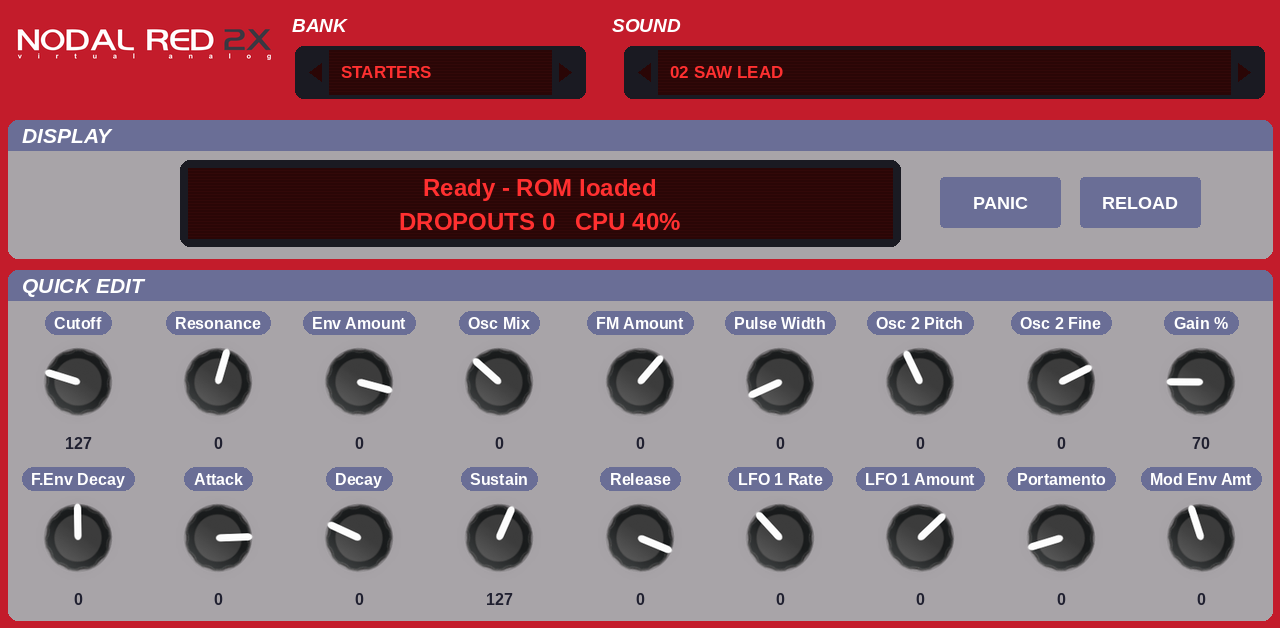
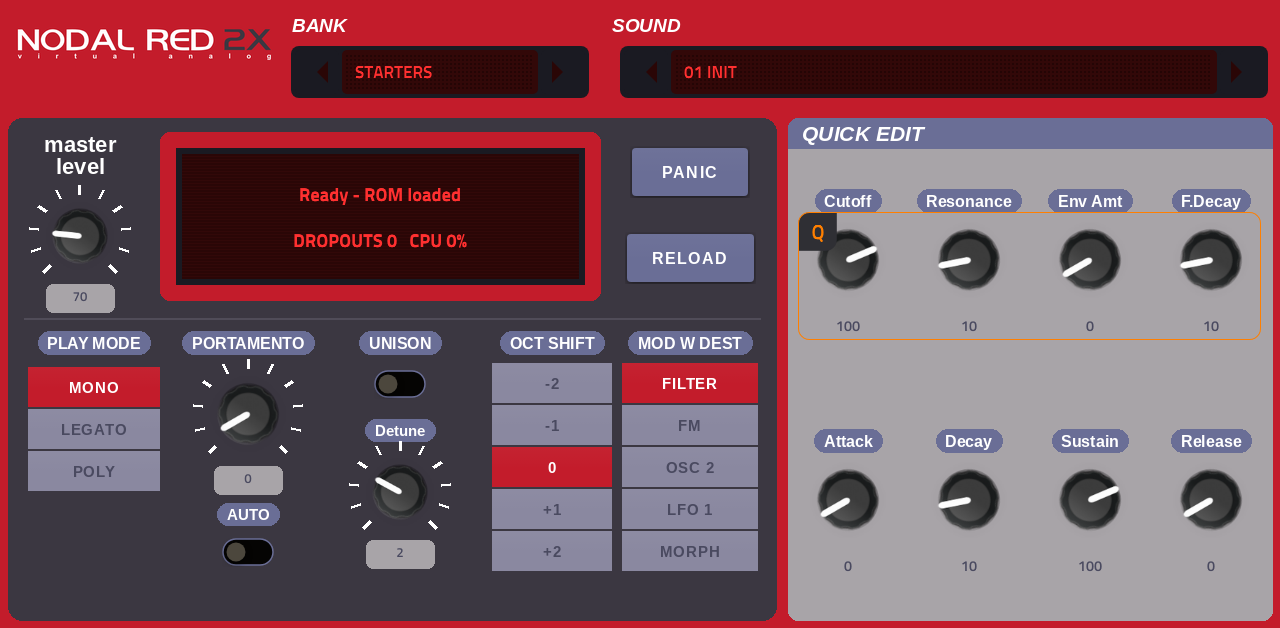
MAIN: the upstream's dark performance section (master level, display, play mode, portamento/auto, unison/detune, octave shift, mod wheel) beside a 4x2 quick edit
Claude-Session: https://claude.ai/code/session_01JtHXuWUjaQhgDnqeAhxqaC

diff --git a/tools/make_skin.py b/tools/make_skin.py
@@ -134,24 +134,67 @@ def header(p):
     p.widgets.append('stepper w=640 h=44 cx=944 cy=%d label="" key=preset get=preset_name prev=preset_prev next=preset_next style=dotmatrix persistent=1' % (72 + Y86))
 
 
-# ---------------------------------------------------------------- MAIN
-QUICK = ["Cutoff", "Resonance", "FilterEnvAmount", "FilterEnvD", "AmpEnvA", "AmpEnvR", "Lfo1Rate", "Portamento"]
-p = Page("MAIN", QUICK + ["gain"])
+# ---------------------------------------------------------------- MAIN: the upstream's dark performance section (left), quick edit 4 x 2 (right)
+import math
+DARK = (59, 55, 65)
+QUICK = ["Cutoff", "Resonance", "FilterEnvAmount", "FilterEnvD", "AmpEnvA", "AmpEnvD", "AmpEnvS", "AmpEnvR"]
+p = Page("MAIN", QUICK + ["gain", "Portamento", "unison_detune", "-"])
 header(p)
-p.panel(8, 120, 1264, 138, "DISPLAY")
-p.d.rounded_rectangle((180, 160, 900, 246), 10, fill=(26, 26, 34))
-p.d.rectangle((188, 168, 892, 238), fill=(42, 6, 6))
-for yy in range(170, 238, 3):
-    p.d.line((188, yy, 892, yy), fill=(50, 8, 8))
-p.widgets.append('readout cx=540 cy=%d w=690 h=36 label="" key=loading_status box=0 tsize=24 tcolor=ff3030 tweight=700' % (188 + Y86))
-p.widgets.append('readout cx=540 cy=%d w=690 h=36 label="" key=engine_stats box=0 tsize=24 tcolor=ff3030 tweight=700' % (222 + Y86))
-p.button(1000, 202, "all_notes_off", "PANIC")
-p.button(1140, 202, "init_patch", "RELOAD")
-p.panel(8, 270, 1264, 350, "QUICK EDIT")
-p.row(8, 1272, 382, [("Cutoff", "Cutoff"), ("Resonance", "Resonance"), ("FilterEnvAmount", "Env Amount"), ("Mix", "Osc Mix"), ("FmDepth", "FM Amount"),
-                     ("PW", "Pulse Width"), ("O2Pitch", "Osc 2 Pitch"), ("O2PitchFine", "Osc 2 Fine"), ("gain", "Gain %")])
-p.row(8, 1272, 538, [("FilterEnvD", "F.Env Decay"), ("AmpEnvA", "Attack"), ("AmpEnvD", "Decay"), ("AmpEnvS", "Sustain"), ("AmpEnvR", "Release"),
-                     ("Lfo1Rate", "LFO 1 Rate"), ("Lfo1Level", "LFO 1 Amount"), ("Portamento", "Portamento"), ("ModEnvLevel", "Mod Env Amt")])
+DX0, DX1 = 8, 776
+p.d.rounded_rectangle((DX0, 118, DX1, 620), 14, fill=DARK)
+
+
+def ticks(cx, cy, r):
+    """the white scale printed around the original's panel knobs (11 ticks over 270 degrees)"""
+    for i in range(11):
+        a = math.radians(135 + i * 27)
+        p.d.line((cx + math.cos(a) * r, cy + math.sin(a) * r, cx + math.cos(a) * (r + 9), cy + math.sin(a) * (r + 9)), fill=WHITE, width=3)
+
+
+def value_window(cx, y):      # MPC writes knob values in the theme ink (dark): a light window on the dark section
+    p.d.rounded_rectangle((cx - 34, y, cx + 34, y + 28), 7, fill=BODY)
+
+
+def dark_knob(cx, cy, key, r=34):
+    ticks(cx, cy, r + 12)
+    value_window(cx, cy + r + 18)
+    p.widgets.append('knob cx=%d cy=%d r=%d label="" key=%s ns=0 vs=20 vy=12 bw=%d' % (cx, cy + Y86, r, key, 2 * r + 40))
+
+
+# top row: master level, the red display, PANIC / RELOAD
+p.d.text((80, 132), "master", font=F(22), fill=WHITE, anchor="ma")
+p.d.text((80, 154), "level", font=F(22), fill=WHITE, anchor="ma")
+dark_knob(80, 236, "gain", 30)
+p.d.rounded_rectangle((160, 132, 600, 300), 10, fill=RED)
+p.d.rectangle((176, 148, 584, 284), fill=(26, 26, 34))
+p.d.rectangle((182, 154, 578, 278), fill=(42, 6, 6))
+for yy in range(156, 278, 3):
+    p.d.line((182, yy, 578, yy), fill=(50, 8, 8))
+p.widgets.append('readout cx=380 cy=%d w=380 h=40 label="" key=loading_status box=0 tsize=28 tcolor=ff3030 tweight=700' % (194 + Y86))
+p.widgets.append('readout cx=380 cy=%d w=380 h=40 label="" key=engine_stats box=0 tsize=28 tcolor=ff3030 tweight=700' % (240 + Y86))
+p.button(690, 172, "all_notes_off", "PANIC")
+p.button(690, 258, "init_patch", "RELOAD")
+p.d.line((24, 318, DX1 - 16, 318), fill=(80, 76, 88), width=2)
+# bottom row: the switch columns under slate headings, as on the original
+COLS = [94, 248, 400, 552, 690]
+p.chip(COLS[0], 334, "PLAY MODE", 16)
+p.widgets.append('enum_v cx=%d cy=%d label="" key=VoiceMode sw=132 sh=40' % (COLS[0], 430 + Y86))
+p.chip(COLS[1], 334, "PORTAMENTO", 16)
+dark_knob(COLS[1], 414, "Portamento")
+p.chip(COLS[1], 506, "AUTO", 15)
+p.widgets.append('toggle cx=%d cy=%d label="" key=Auto ns=0' % (COLS[1], 552 + Y86))
+p.chip(COLS[2], 334, "UNISON", 16)
+p.widgets.append('toggle cx=%d cy=%d label="" key=Unison ns=0' % (COLS[2], 384 + Y86))
+p.chip(COLS[2], 422, "Detune", 15)
+dark_knob(COLS[2], 492, "unison_detune", 30)
+p.chip(COLS[3], 334, "OCT SHIFT", 16)
+p.widgets.append('enum_v cx=%d cy=%d label="" key=OctaveShift sw=120 sh=40' % (COLS[3], 468 + Y86))
+p.chip(COLS[4], 334, "MOD W DEST", 16)
+p.widgets.append('enum_v cx=%d cy=%d label="" key=ModWheelDest sw=136 sh=40' % (COLS[4], 468 + Y86))
+# quick edit, 4 x 2
+p.panel(788, 118, 484, 502, "QUICK EDIT")
+p.row(788, 1272, 260, [("Cutoff", "Cutoff"), ("Resonance", "Resonance"), ("FilterEnvAmount", "Env Amt"), ("FilterEnvD", "F.Decay")])
+p.row(788, 1272, 500, [("AmpEnvA", "Attack"), ("AmpEnvD", "Decay"), ("AmpEnvS", "Sustain"), ("AmpEnvR", "Release")])
 p.done()
 
 # ---------------------------------------------------------------- BANKS (STARTERS, then the sound-set files in banks/)

diff --git a/tools/preview.py b/tools/preview.py
@@ -93,6 +93,13 @@ def render(name, ws, art):
                 for yy in range(cy - h // 2 + 2, cy + h // 2, 3):
                     d.line((x0, yy, x0 + w, yy), fill=T("theme_display_cell"))
             d.text((x0 + 12 if op == "stepper" else cx, cy), txt, font=F(17), fill=ink, anchor="lm" if op == "stepper" else "mm")
+        elif op == "enum_v":
+            opts = P[key]["options"]; sw, sh = int(a.get("sw", 135)), int(a.get("sh", 30))
+            y0 = cy - (len(opts) * (sh + 2)) // 2
+            for j, o in enumerate(opts):
+                on = j == (i % len(opts))
+                d.rounded_rectangle((cx - sw // 2, y0 + j * (sh + 2), cx + sw // 2, y0 + j * (sh + 2) + sh), 8, fill=T("theme_seg_active") if on else T("theme_seg_inactive"))
+                d.text((cx, y0 + j * (sh + 2) + sh // 2), o, font=F(16), fill=(255, 255, 255), anchor="mm")
         elif op == "button":
             w, h = int(a.get("w", 120)), int(a.get("h", 50))
             d.rounded_rectangle((cx - w // 2, cy - h // 2, cx + w // 2, cy + h // 2), 4, fill=T("theme_btn_bg"))
@@ -123,6 +130,6 @@ for l in lines + ["[tab END]"]:
     op = l.split(" ", 1)[0]
     if op == "art":
         art = attrs(l)["file"]
-    elif op in ("knob", "toggle", "popup", "readout", "stepper", "button", "list"):
+    elif op in ("knob", "toggle", "popup", "readout", "stepper", "button", "list", "enum_v"):
         ws.append((op, attrs(l)))
 print("preview:", OUT)
